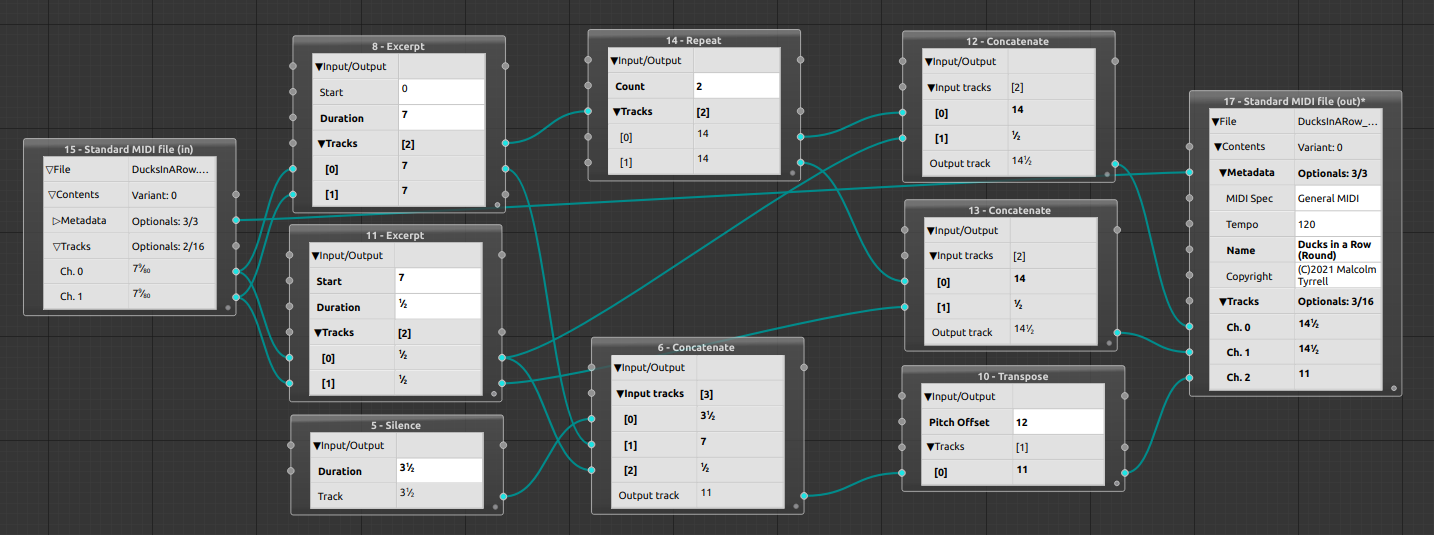
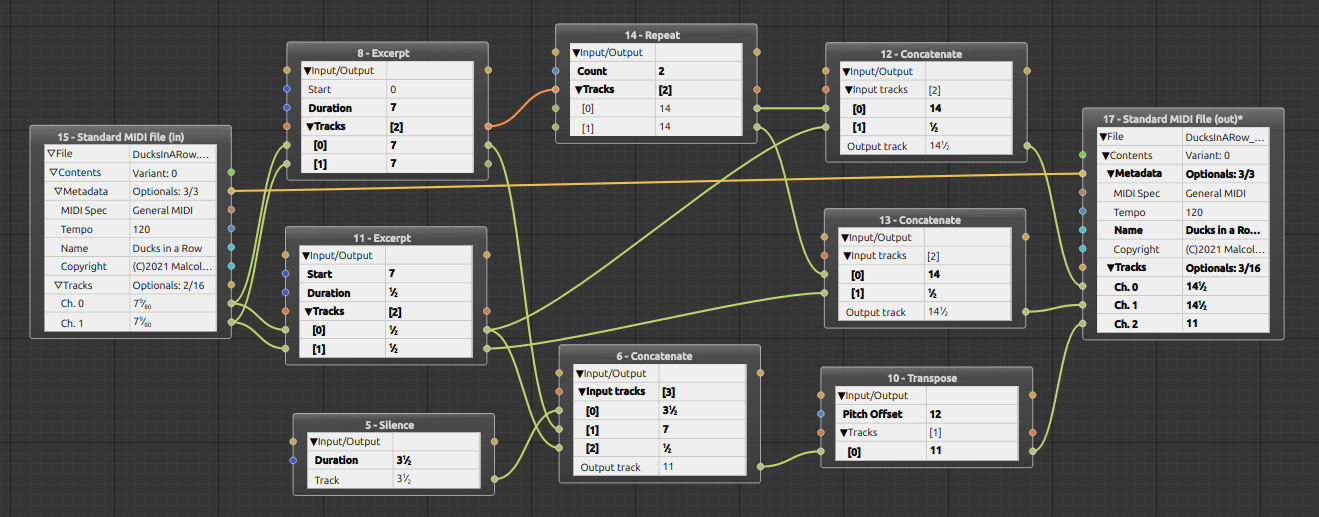
Colour connections by type (#67)
Use built in nodeeditor functionality to colour connections. The Type::getKind() method would now only provide a string to influence the colouring, so give it the more appropriate name "Type::getFlavour()".

Also add type tooltips for row keys.

* Use style to colour connections

* getKind -> getFlavour

* Reference custom branch of SeqWires

* Provide a typed expression as a tooltip for row keys

* Better type names for integers and rationals.

* Latest BabelWires

* Screenshot with colours

* Fix tests

diff --git a/BabelWiresQtUi/ModelBridge/nodeContentsModel.cpp b/BabelWiresQtUi/ModelBridge/nodeContentsModel.cpp
@@ -89,7 +89,7 @@ QVariant babelwires::NodeContentsModel::data(const QModelIndex& index, int role)
         return QVariant();
     }
 
-    const int column = index.column();
+    const RowModel::ColumnType columnType = index.column() ? RowModel::ColumnType::Value : RowModel::ColumnType::Key;
 
     const ValueTreeNode* valueTreeNode = entry->getInputThenOutput();
     assert(valueTreeNode && "No valueTreeNode for row model");
@@ -98,7 +98,7 @@ QVariant babelwires::NodeContentsModel::data(const QModelIndex& index, int role)
 
     switch (role) {
         case Qt::DisplayRole: {
-            if (column == 0) {
+            if (columnType == RowModel::ColumnType::Key) {
                 if (entry->isExpandable()) {
                     const char* triangle;
                     if (entry->isExpanded()) {
@@ -111,15 +111,14 @@ QVariant babelwires::NodeContentsModel::data(const QModelIndex& index, int role)
                     return QString(entry->getIndent() * 2, ' ') + entry->getLabel().c_str();
                 }
             } else {
-                assert((column == 1) && "Column out of range");
                 return rowModel->getValueDisplayData();
             }
         }
         case Qt::ToolTipRole: {
-            return rowModel->getTooltip();
+            return rowModel->getTooltip(columnType);
         }
         case Qt::BackgroundRole: {
-            const babelwires::RowModel::BackgroundStyle backgroundStyle = rowModel->getBackgroundStyle(column ? RowModel::ColumnType::Value : RowModel::ColumnType::Key);
+            const babelwires::RowModel::BackgroundStyle backgroundStyle = rowModel->getBackgroundStyle(columnType);
             BackgroundType backgroundType = BackgroundType::normal;
             switch(backgroundStyle) {
                 case RowModel::BackgroundStyle::failed:

diff --git a/BabelWiresQtUi/ModelBridge/RowModels/valueRowModel.cpp b/BabelWiresQtUi/ModelBridge/RowModels/valueRowModel.cpp
@@ -16,6 +16,7 @@
 #include <BabelWiresLib/ProjectExtra/projectDataLocation.hpp>
 #include <BabelWiresLib/TypeSystem/value.hpp>
 #include <BabelWiresLib/ValueTree/valueTreePathUtils.hpp>
+#include <BabelWiresLib/TypeSystem/type.hpp>
 
 #include <QString>
 
@@ -76,13 +77,19 @@ QSize babelwires::ValueRowModel::sizeHint(QStyleOptionViewItem& option, const QM
     return m_valueModelDispatcher->sizeHint(option);
 }
 
-QString babelwires::ValueRowModel::getTooltip() const {
-    QString rowTooltip = RowModel::getTooltip();
-    QString valueTooltip = m_valueModelDispatcher->getTooltip();
-    if (rowTooltip.isEmpty() || valueTooltip.isEmpty()) {
-        return rowTooltip + valueTooltip;
+QString babelwires::ValueRowModel::getTooltip(ColumnType c) const {
+    const QString rowTooltip = RowModel::getTooltip(c);
+    QString columnTooltip;
+    if (c == ColumnType::Key) {
+        const babelwires::ValueTreeNode& valueTreeNode = getValueTreeNode();
+        columnTooltip = QString("%1 : %2").arg(m_contentsCacheEntry->getLabel().c_str()).arg(valueTreeNode.getType().getName().c_str());
     } else {
-        return rowTooltip + "/n" + valueTooltip;
+        columnTooltip = m_valueModelDispatcher->getTooltip();
+    } 
+    if (rowTooltip.isEmpty() || columnTooltip.isEmpty()) {
+        return rowTooltip + columnTooltip;
+    } else {
+        return rowTooltip + "/n" + columnTooltip;
     }
 }
 

diff --git a/Tests/BabelWiresLib/arrayTypeTest.cpp b/Tests/BabelWiresLib/arrayTypeTest.cpp
@@ -22,7 +22,7 @@ TEST(ArrayTypeTest, simpleArrayTypeCreateValue) {
     EXPECT_EQ(arrayType.getInitialSize(), testDomain::TestSimpleArrayType::s_defaultSize);
     EXPECT_EQ(arrayType.getSizeRange().m_min, testDomain::TestSimpleArrayType::s_minimumSize);
     EXPECT_EQ(arrayType.getSizeRange().m_max, testDomain::TestSimpleArrayType::s_maximumSize);
-    EXPECT_FALSE(arrayType.getKind().empty());
+    EXPECT_FALSE(arrayType.getFlavour().empty());
 
     babelwires::ValueHolder newValue = arrayType.createValue(testEnvironment.m_typeSystem);
     EXPECT_TRUE(newValue);
@@ -49,7 +49,7 @@ TEST(ArrayTypeTest, compoundArrayTypeCreateValue) {
     EXPECT_EQ(arrayType.getInitialSize(), testDomain::TestCompoundArrayType::s_defaultSize);
     EXPECT_EQ(arrayType.getSizeRange().m_min, testDomain::TestCompoundArrayType::s_minimumSize);
     EXPECT_EQ(arrayType.getSizeRange().m_max, testDomain::TestCompoundArrayType::s_maximumSize);
-    EXPECT_FALSE(arrayType.getKind().empty());
+    EXPECT_FALSE(arrayType.getFlavour().empty());
 
     babelwires::ValueHolder newValue = arrayType.createValue(testEnvironment.m_typeSystem);
     EXPECT_TRUE(newValue);

diff --git a/BabelWiresLib/TypeSystem/type.hpp b/BabelWiresLib/TypeSystem/type.hpp
@@ -38,10 +38,11 @@ namespace babelwires {
         /// Complex types constructed by TypeConstructors must provide their own implementation.
         virtual TypeRef getTypeRef() const = 0;
 
-        /// Return a short string which identifies the type of data this type handles.
-        /// If there is a unique class for values of this type, then the serializationType of that class 
-        /// is a good choice.
-        virtual std::string getKind() const = 0;
+        /// Return a short string which can be used in the UI to give a sense of the data this type handles.
+        /// It is not used to impose any formal restrictions.
+        /// In cases where the type has a unique and serializable class of values, the serializationType of that
+        /// class is a good choice.
+        virtual std::string getFlavour() const = 0;
 
         /// How are this type and other related by subtyping? A type may not know if it's related to
         /// other, so by default, this returns an empty optional. (If neither type know how they are

diff --git a/Tests/BabelWiresLib/rationalTypeTest.cpp b/Tests/BabelWiresLib/rationalTypeTest.cpp
@@ -50,7 +50,7 @@ TEST(RationalTypeTest, defaultRationalTypeIsValidValue) {
 TEST(RationalTypeTest, defaultRationalTypeGetKind) {
     babelwires::DefaultRationalType rationalType;
 
-    EXPECT_FALSE(rationalType.getKind().empty());
+    EXPECT_FALSE(rationalType.getFlavour().empty());
 }
 
 TEST(RationalTypeTest, defaultRationalTypeIsRegistered) {
@@ -148,7 +148,7 @@ TEST(RationalTypeTest, sameKind) {
 
     babelwires::DefaultRationalType defaultRationalType;
 
-    EXPECT_EQ(defaultRationalType.getKind(), type->getKind());
+    EXPECT_EQ(defaultRationalType.getFlavour(), type->getFlavour());
 }
 
 TEST(RationalTypeTest, typeName) {
@@ -158,5 +158,5 @@ TEST(RationalTypeTest, typeName) {
         babelwires::RationalTypeConstructor::getThisIdentifier(), babelwires::RationalValue(babelwires::Rational(2, 3)),
         babelwires::RationalValue(babelwires::Rational(4, 3)), babelwires::RationalValue(1));
 
-    EXPECT_EQ(rationalTypeRef.toString(), "{2/3..1 1/3}");
+    EXPECT_EQ(rationalTypeRef.toString(), "Rational{2/3..1 1/3}");
 }

diff --git a/Tests/BabelWiresLib/intTypeTest.cpp b/Tests/BabelWiresLib/intTypeTest.cpp
@@ -50,7 +50,7 @@ TEST(IntTypeTest, defaultIntTypeIsValidValue) {
 TEST(IntTypeTest, defaultIntTypeGetKind) {
     babelwires::DefaultIntType intType;
 
-    EXPECT_FALSE(intType.getKind().empty());
+    EXPECT_FALSE(intType.getFlavour().empty());
 }
 
 TEST(IntTypeTest, defaultIntTypeIsRegistered) {
@@ -143,7 +143,7 @@ TEST(IntTypeTest, sameKind) {
 
     babelwires::DefaultIntType defaultIntType;
 
-    EXPECT_EQ(defaultIntType.getKind(), type->getKind());
+    EXPECT_EQ(defaultIntType.getFlavour(), type->getFlavour());
 }
 
 TEST(IntTypeTest, typeName) {
@@ -152,5 +152,5 @@ TEST(IntTypeTest, typeName) {
     babelwires::TypeRef intTypeRef(babelwires::IntTypeConstructor::getThisIdentifier(), babelwires::IntValue(-12),
                                    babelwires::IntValue(14), babelwires::IntValue(-3));
 
-    EXPECT_EQ(intTypeRef.toString(), "{-12..14}");
+    EXPECT_EQ(intTypeRef.toString(), "Integer{-12..14}");
 }

diff --git a/BabelWiresLib/ValueTree/valueTreeNode.hpp b/BabelWiresLib/ValueTree/valueTreeNode.hpp
@@ -81,11 +81,11 @@ namespace babelwires {
         /// carried by the root.
         const Type& getType() const;
 
-        /// This is a convenience method which calls getType().getKind().
+        /// This is a convenience method which calls getType().getFlavour().
         /// The need for nodes to provide a string description is not fundamental to the data model:
         /// it is imposed by the (current) UI.
         /// Returning the empty string tells the project that values of this kind cannot be wired together.
-        std::string getKind() const;
+        std::string getFlavour() const;
 
         /// Set this to hold the same value as other.
         /// This will throw a ModelException if the assignment failed.

diff --git a/BabelWiresLib/Types/Rational/rationalTypeConstructor.hpp b/BabelWiresLib/Types/Rational/rationalTypeConstructor.hpp
@@ -17,7 +17,7 @@ namespace babelwires {
       public:
         // The name format is not distinct from that of int, so there can be ambiguity. That's probably
         // alright because type names are not used for anything other than display.
-        TYPE_CONSTRUCTOR("Rational", "{{[0]..[1]}}", "dc2b335e-9336-471e-bc71-466bb65229d2", 1);
+        TYPE_CONSTRUCTOR("Rational", "Rational{{[0]..[1]}}", "dc2b335e-9336-471e-bc71-466bb65229d2", 1);
 
         std::unique_ptr<Type> constructType(const TypeSystem& typeSystem, TypeRef newTypeRef, const std::vector<const Type*>& typeArguments,
                                             const std::vector<EditableValueHolder>& valueArguments) const override;

diff --git a/BabelWiresQtUi/mainWindow.cpp b/BabelWiresQtUi/mainWindow.cpp
@@ -32,6 +32,7 @@
 #include <Common/exceptions.hpp>
 
 #include <QtNodes/GraphicsView>
+#include <QtNodes/ConnectionStyle>
 
 #include <QApplication>
 #include <QClipboard>
@@ -52,7 +53,7 @@ namespace {
 babelwires::MainWindow::MainWindow(ProjectGraphModel& projectGraphModel, UnifiedLog& log)
     : m_projectGraphModel(projectGraphModel)
     , m_userLogger(log) {
-
+    QtNodes::ConnectionStyle::setConnectionStyle(R"({ "ConnectionStyle" : { "UseDataDefinedColors" : true } })");
     m_graphicsScene = new ProjectGraphicsScene(projectGraphModel);
     // Don't call the constructor that takes a scene, since it calls setScene.
     auto view = new QtNodes::GraphicsView();

diff --git a/BabelWiresQtUi/ModelBridge/RowModels/fileRowModel.cpp b/BabelWiresQtUi/ModelBridge/RowModels/fileRowModel.cpp
@@ -28,12 +28,14 @@ QVariant babelwires::FileRowModel::getValueDisplayData() const {
     return QString(babelwires::pathToString(getFileElement().getFilePath().filename()).c_str());
 }
 
-QString babelwires::FileRowModel::getTooltip() const {
+QString babelwires::FileRowModel::getTooltip(ColumnType c) const {
     if (m_node->isFailed()) {
-        return RowModel::getTooltip();
-    } else {
+        return RowModel::getTooltip(c);
+    } else if (c == ColumnType::Value) {
         // Full path.
         return QString(babelwires::pathToString(getFileElement().getFilePath()).c_str());
+    } else {
+        return {};
     }
 }
 

diff --git a/BabelWiresLib/Types/Int/intTypeConstructor.hpp b/BabelWiresLib/Types/Int/intTypeConstructor.hpp
@@ -15,7 +15,7 @@ namespace babelwires {
     class IntTypeConstructor : public TypeConstructor {
       public:
         /// Note that the we don't represent the default in the name.
-        TYPE_CONSTRUCTOR("Int", "{{[0]..[1]}}", "96dc61c3-5940-47c4-9d98-9f06d5f01157", 1);
+        TYPE_CONSTRUCTOR("Int", "Integer{{[0]..[1]}}", "96dc61c3-5940-47c4-9d98-9f06d5f01157", 1);
 
         std::unique_ptr<Type> constructType(const TypeSystem& typeSystem, TypeRef newTypeRef, const std::vector<const Type*>& typeArguments,
                                             const std::vector<EditableValueHolder>& valueArguments) const override;

diff --git a/Tests/BabelWiresLib/TestUtils/testValueAndType.hpp b/Tests/BabelWiresLib/TestUtils/testValueAndType.hpp
@@ -35,7 +35,7 @@ namespace testUtils {
 
         babelwires::NewValueHolder createValue(const babelwires::TypeSystem& typeSystem) const override;
         bool isValidValue(const babelwires::TypeSystem& typeSystem, const babelwires::Value& value) const override;
-        std::string getKind() const override;
+        std::string getFlavour() const override;
 
         std::optional<babelwires::SubtypeOrder> compareSubtypeHelper(const babelwires::TypeSystem& typeSystem, const babelwires::Type& other) const override;
 
